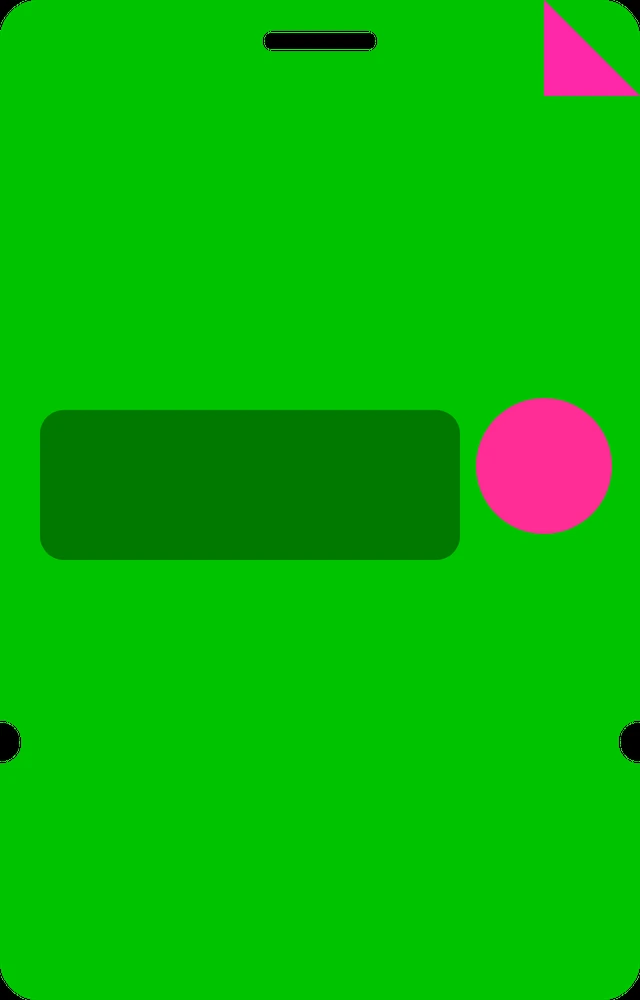
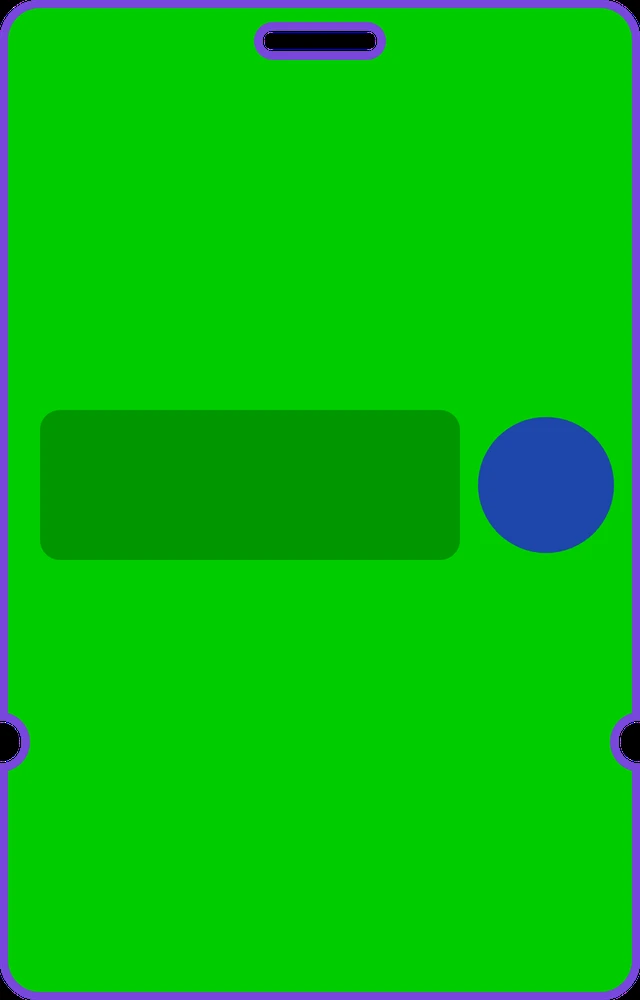
El pase se vuelve sobrio y más chico
- Dibujo nuevo (scripts/generar-pase.mjs): papel marfil, una sola tinta,
  la itálica de Newsreader mezclada con Schibsted, un guilloché apenas
  visible, un sello negro de foil y el dorso negro. El único color es el
  borde, un foil champagne y perla que sigue también las muescas y el
  troquel; en el 3D es metálico y un poco tornasolado.
- El sello impreso al reservar repite el panel nuevo y pone el nombre en
  la misma serif.
- Más chico: el lugar de la portada pasa de 17,5 a 14,5rem, el hueco del
  banner de 32 a 26rem y la escala de vuelo de 0,42 a 0,34. Una ida y
  vuelta cada cuatro pantallas en vez de tres.
- El banner a tono: halo tenue, el champagne del foil en la línea de
  corte, la tijera y las tildes, y el botón del color del papel.

Claude-Session: https://claude.ai/code/session_01URkYAoW3PLGzmED62UZcjE

Changed region(s): [[0.0, 0.0, 1.0, 1.0]]

diff --git a/components/pase/pase-3d.ts b/components/pase/pase-3d.ts
@@ -114,12 +114,14 @@ const PESO = 240;
 const ROCE = 0.045;
 const ARRASTRE_VUELO = 0.9;
 const ITERACIONES = 5;
-const ESCALA_VUELO = 0.42;
+/* Chico: volando cruza el texto que alguien está leyendo. Era 0,42 y
+   molestaba al scrollear. */
+const ESCALA_VUELO = 0.34;
 
 /* La textura de la cara, en px de la imagen (a 2x del diseño de 640 × 1000). */
 const TEX_W = 1280;
 const TEX_H = 2000;
-const PANEL = { x: 80, y: 820, w: 840, h: 300, r: 48 };
+const PANEL = { x: 80, y: 820, w: 840, h: 300, r: 40 };
 
 type Pose = {
   x: number;
@@ -276,47 +278,59 @@ export async function montarPase(o: OpcionesPase): Promise<ControlPase> {
     pincel.clearRect(0, 0, TEX_W, TEX_H);
     pincel.drawImage(cara, 0, 0, TEX_W, TEX_H);
     if (sello) {
-      await document.fonts.load('600 92px "Schibsted Grotesk"').catch(() => {});
+      /* El panel se vuelve a pintar entero con el mismo dibujo que tiene
+         en la textura (scripts/generar-pase.mjs): el marfil del panel, su
+         filete y la etiqueta. El nombre va en la itálica de Newsreader, como
+         «Tu lugar»; la portada ya la bajó, así que está a mano. */
+      await Promise.all([
+        document.fonts.load('600 26px "Schibsted Grotesk"'),
+        document.fonts.load('italic 400 100px "Newsreader"'),
+      ]).catch(() => {});
       const { x, y, w, h, r } = PANEL;
-      pincel.fillStyle = "#fffdf9";
+      pincel.fillStyle = "#fbf9f4";
+      pincel.strokeStyle = "rgba(21,20,19,0.12)";
+      pincel.lineWidth = 3;
       pincel.beginPath();
-      pincel.roundRect(x, y, w, h, r);
+      pincel.roundRect(x + 1.5, y + 1.5, w - 3, h - 3, r - 1.5);
       pincel.fill();
-      pincel.fillStyle = "#6a6a6a";
-      pincel.font = '600 26px "Schibsted Grotesk", sans-serif';
-      pincel.letterSpacing = "5.7px";
-      pincel.fillText(o.textos.titular.toUpperCase(), x + 56, y + 74);
-      // La etiqueta, ahora rellena: el lugar ya es de alguien.
+      pincel.stroke();
+      pincel.fillStyle = "#7a736b";
       pincel.font = '600 24px "Schibsted Grotesk", sans-serif';
-      pincel.letterSpacing = "4.3px";
+      pincel.letterSpacing = "5.8px";
+      pincel.fillText(o.textos.titular.toUpperCase(), x + 56, y + 70);
+      // La etiqueta, ahora rellena: el lugar ya es de alguien.
+      pincel.font = '600 22px "Schibsted Grotesk", sans-serif';
+      pincel.letterSpacing = "4.4px";
       const etiqueta = o.textos.reservado.toUpperCase();
       const ancho = pincel.measureText(etiqueta).width + 44;
-      pincel.fillStyle = "#121212";
+      pincel.fillStyle = "#151413";
       pincel.beginPath();
-      pincel.roundRect(x + w - 44 - ancho, y + 44, ancho, 46, 23);
+      pincel.roundRect(x + w - 44 - ancho, y + 40, ancho, 46, 23);
       pincel.fill();
-      pincel.fillStyle = "#fffdf9";
-      pincel.fillText(etiqueta, x + w - 44 - ancho + 22, y + 76);
+      pincel.fillStyle = "#fbf9f4";
+      pincel.fillText(etiqueta, x + w - 44 - ancho + 22, y + 71);
       // Lo principal, tan grande como entre en el panel: el nombre si lo
       // dejó, y si no el mail. Con nombre, el mail va chico abajo.
       const principal = sello.nombre || sello.email;
-      pincel.letterSpacing = "-2px";
-      pincel.fillStyle = "#121212";
-      let tam = 84;
+      pincel.letterSpacing = "-1px";
+      pincel.fillStyle = "#151413";
+      let tam = sello.nombre ? 108 : 76;
       do {
-        pincel.font = `600 ${tam}px "Schibsted Grotesk", sans-serif`;
+        pincel.font = sello.nombre
+          ? `italic 400 ${tam}px "Newsreader", Georgia, serif`
+          : `600 ${tam}px "Schibsted Grotesk", sans-serif`;
         tam -= 4;
       } while (pincel.measureText(principal).width > w - 112 && tam > 30);
-      pincel.fillText(principal, x + 56, y + (sello.nombre ? 178 : 200));
+      pincel.fillText(principal, x + 56, y + (sello.nombre ? 190 : 200));
       if (sello.nombre) {
         pincel.letterSpacing = "0px";
-        pincel.fillStyle = "#565656";
-        tam = 34;
+        pincel.fillStyle = "#5e5850";
+        tam = 32;
         do {
           pincel.font = `500 ${tam}px "Schibsted Grotesk", sans-serif`;
           tam -= 2;
         } while (pincel.measureText(sello.email).width > w - 112 && tam > 20);
-        pincel.fillText(sello.email, x + 56, y + 244);
+        pincel.fillText(sello.email, x + 56, y + 252);
       }
       pincel.letterSpacing = "0px";
     }
@@ -496,7 +510,9 @@ export async function montarPase(o: OpcionesPase): Promise<ControlPase> {
   const seguir = (sy: number, e: ReturnType<typeof etapas>): Pose => {
     const tramo = Math.max(1, e.descenso - e.despegue);
     const q = acotar((sy - e.despegue) / tramo);
-    const cruces = 2 * Math.max(1, Math.round(tramo / (vh * 3)));
+    // Una ida y vuelta cada cuatro pantallas: con una cada tres, el pase
+    // pasaba de un costado al otro tan seguido que distraía.
+    const cruces = 2 * Math.max(1, Math.round(tramo / (vh * 4)));
     const mitad = (W0 * ESCALA_VUELO) / 2 + 40;
     const lado = 0.5 + 0.5 * Math.cos(Math.PI * q * cruces);
     return {

diff --git a/components/sections/lugar.tsx b/components/sections/lugar.tsx
@@ -41,7 +41,8 @@ function Vecino({ lado }: { lado: "izquierda" | "derecha" }) {
  * del medio le falta el suyo: en su lugar hay un recorte del color de la
  * página, con la forma exacta del pase acostado —las esquinas, y dos
  * pestañas que calzan en las muescas del talón—, la línea de corte con su
- * tijera y un halo de los colores del pase. El pase que vino volando desde
+ * tijera y un halo tenue. El único color es el champagne del foil del pase,
+ * en la línea de corte, la tijera y las tildes: el resto es la tinta. El pase que vino volando desde
  * la portada (components/pase) baja, se acuesta y calza ahí: es la pieza que
  * faltaba. Abajo, el formulario con nombre y mail.
  *
@@ -83,10 +84,10 @@ export function Lugar({ surface = "mist" }: { surface?: Surface }) {
 
         {/* La tira de cupones y el hueco. El contenedor mide lo que el hueco:
             los vecinos y el halo se ubican desde él y la tarjeta los corta. */}
-        <div className="relative mx-auto mt-10 w-full max-w-[19rem] sm:max-w-[26rem] md:mt-12 lg:max-w-[32rem]">
+        <div className="relative mx-auto mt-10 w-full max-w-[17rem] sm:max-w-[22rem] md:mt-12 lg:max-w-[26rem]">
           <div
             aria-hidden
-            className="pointer-events-none absolute left-1/2 top-1/2 -z-10 h-[150%] w-[130%] -translate-x-1/2 -translate-y-1/2 rounded-full bg-[radial-gradient(closest-side_at_28%_42%,var(--color-aqua),transparent),radial-gradient(closest-side_at_70%_38%,var(--color-rosa),transparent),radial-gradient(closest-side_at_52%_72%,var(--color-miel),transparent)] opacity-40 blur-3xl"
+            className="pointer-events-none absolute left-1/2 top-1/2 -z-10 h-[150%] w-[130%] -translate-x-1/2 -translate-y-1/2 rounded-full bg-[radial-gradient(closest-side,#e6d7bb,transparent)] opacity-25 blur-3xl"
           />
           <Vecino lado="izquierda" />
           <Vecino lado="derecha" />
@@ -94,9 +95,9 @@ export function Lugar({ surface = "mist" }: { surface?: Surface }) {
           {/* La línea de corte, con la tijera encima. */}
           <div
             aria-hidden
-            className="pointer-events-none absolute -inset-2.5 rounded-[calc(4%+10px)/calc(6.25%+10px)] border-[1.5px] border-dashed border-miel/70"
+            className="pointer-events-none absolute -inset-2.5 rounded-[calc(4%+10px)/calc(6.25%+10px)] border-[1.5px] border-dashed border-[#c8ae84]/60"
           >
-            <ScissorsIcon className="absolute -top-[9px] left-7 h-4 w-4 bg-ink text-miel" />
+            <ScissorsIcon className="absolute -top-[9px] left-7 h-4 w-4 bg-ink text-[#c8ae84]" />
           </div>
 
           {/* El recorte: el color de la página, con un poco de sombra
@@ -123,7 +124,7 @@ export function Lugar({ surface = "mist" }: { surface?: Surface }) {
           <PaseLugar
             origen="banner"
             acostado
-            sizes="(min-width: 1024px) 330px, (min-width: 640px) 270px, 200px"
+            sizes="(min-width: 1024px) 270px, (min-width: 640px) 230px, 180px"
             className="w-full"
           />
         </div>
@@ -141,7 +142,7 @@ export function Lugar({ surface = "mist" }: { surface?: Surface }) {
           <ul className="mx-auto mt-6 flex max-w-[56rem] flex-wrap justify-center gap-x-6 gap-y-2 text-[0.85rem] text-on-ink/70">
             {lugar.points.map((punto) => (
               <li key={punto} className="flex items-center gap-2">
-                <CheckIcon className="h-3.5 w-3.5 shrink-0 text-miel" />
+                <CheckIcon className="h-3.5 w-3.5 shrink-0 text-[#c8ae84]" />
                 {punto}
               </li>
             ))}

diff --git a/components/pase/pase-formulario.tsx b/components/pase/pase-formulario.tsx
@@ -27,7 +27,7 @@ import {
  * - El de la portada es corto: el mail solo, en una línea, sobre la página.
  * - El del banner (`conNombre`) pide nombre y mail, con las etiquetas a la
  *   vista, y va sobre la tinta del banner (`sobreTinta`): ahí el botón negro
- *   desaparecería, así que lleva los colores del pase.
+ *   desaparecería, así que se da vuelta y es del color del papel.
  */
 export function PaseFormulario({
   origen,
@@ -189,10 +189,9 @@ export function PaseFormulario({
           className={cn(
             "h-12 whitespace-nowrap rounded-full px-6 text-[0.95rem] font-medium transition-[opacity,transform] disabled:opacity-70",
             sobreTinta
-              ? /* Los colores del pase, en un degradé fijo: va sobre la
-                   tinta en los dos temas, y el texto oscuro pasa 9:1 contra
-                   cualquiera de los tres. */
-                "bg-[linear-gradient(100deg,var(--color-aqua),var(--color-rosa)_55%,var(--color-miel))] text-[#121212] hover:-translate-y-px hover:opacity-95"
+              ? /* Sobre la tinta, el botón es el papel: blanco sobre la
+                   tarjeta oscura, y oscuro cuando el tema la da vuelta. */
+                "bg-on-ink text-ink hover:-translate-y-px hover:opacity-90"
               : "bg-ink text-on-ink hover:opacity-90",
           )}
         >

diff --git a/components/sections/hero.tsx b/components/sections/hero.tsx
@@ -65,7 +65,8 @@ export function Hero({
           <PaseLugar
             origen="hero"
             entra={0.5}
-            className="mx-auto w-[15.5rem] sm:w-[16rem] xl:w-[17.5rem]"
+            sizes="(min-width: 1280px) 232px, 216px"
+            className="mx-auto w-[13rem] sm:w-[13.5rem] xl:w-[14.5rem]"
           />
           <div data-entra style={{ "--entra": "0.6s" } as React.CSSProperties}>
             <PaseFormulario origen="hero" className="mt-7" />

diff --git a/CLAUDE.md b/CLAUDE.md
@@ -58,7 +58,7 @@ Sections never paint a background. They declare `data-surface="mist" | "deep"`, 
 - Every animation runs inside `gsap.matchMedia()` with a reduced-motion branch. With reduced motion or with JavaScript off, everything must be visible.
 - The hero entrance is pure CSS (`data-entra`, `SplitHeading immediate`) so the LCP does not wait for JavaScript.
 - The hero (`components/sections/hero.tsx`) is a left-aligned text column (availability pill, title, lead, CTAs) with the Pantufla pass on the right, its email form below it (`components/pase/pase-formulario.tsx`, posted to `/api/lugar`), and the masonry screen gallery (`hero-galeria.tsx`) below, full width. The banner's form (`conNombre`, `sobreTinta`) also asks for a name. The form state is shared by both forms and the 3D pass through `lib/pase.ts` (a `useSyncExternalStore` store, remembered in localStorage as JSON; a bare email string from before still reads); once reserved, the pass prints the name (or the email) on its face.
-- The pass is a 3D paper (`components/pase/pase-3d.ts`, Three.js, imported only after the capability check): one fixed full-viewport canvas (`pase-escena.tsx`, `z-30`, no pointer events) draws a 13 × 20 Verlet cloth with stretch, shear and bend springs, each point tied to its target by a spring that is stiff in the centre and loose at the edges, plus air drag on the face and a little weight in flight. The page only holds the slots (`[data-pase-lugar="hero" | "banner"]`, `pase-lugar.tsx`) with a fallback image; `[data-pase-3d]` on `<html>` hides those images while the 3D runs. One world unit is one CSS px and the camera makes the z = 0 plane real size, so a flat pass lands exactly on its slot. With both slots on (desktop/tablet), it peels off the hero slot when that slot's centre reaches 15% of the viewport, shrinks to 0.42, crosses the page in the lower third turning over (the back shows mid-crossing) and lands lying down in the banner's slot, halfway down the home (`components/sections/lugar.tsx`, after Capacidades: the user found a flight across the whole page annoying). A slot wider than tall is a lying-down pass: the 3D scales it from the slot's height and rotates it a quarter turn. `GIROS` (`pase-lugar.tsx`) are CSS degrees (clockwise positive) shared by the fallback image and the 3D, which flips the sign because its y axis points up. The banner is built around that slot: an ink card with a strip of dashed coupons and a cut-out hole (page colour) with the pass's exact corners and two tabs that fill the stub's notches (measured from the texture), so the landed pass reads as the missing piece. Focus inside a pass zone (`[data-pase-zona]`) keeps it docked there. On phones it stays in whichever slot is visible. Everything is a function of scroll and pointer: when the paper settles the loop sleeps. It never runs under reduced motion, nor on software WebGL (renderer name check, like the old ribbon); `?pase3d` forces it for headless tests, where the lighting can also be overridden from the URL (`env`, `luz`, `brillo`, `iris`). Since r163, environment intensity is `scene.environmentIntensity`, not the material's `envMapIntensity`. The textures (`public/pase`: face es/en, back, and an R/G/B map for iridescence/roughness/metalness) are drawn in HTML by `scripts/generar-pase.mjs`; the pass text is part of that drawing, not of the Studio.
+- The pass is a 3D paper (`components/pase/pase-3d.ts`, Three.js, imported only after the capability check): one fixed full-viewport canvas (`pase-escena.tsx`, `z-30`, no pointer events) draws a 13 × 20 Verlet cloth with stretch, shear and bend springs, each point tied to its target by a spring that is stiff in the centre and loose at the edges, plus air drag on the face and a little weight in flight. The page only holds the slots (`[data-pase-lugar="hero" | "banner"]`, `pase-lugar.tsx`) with a fallback image; `[data-pase-3d]` on `<html>` hides those images while the 3D runs. One world unit is one CSS px and the camera makes the z = 0 plane real size, so a flat pass lands exactly on its slot. With both slots on (desktop/tablet), it peels off the hero slot when that slot's centre reaches 15% of the viewport, shrinks to 0.34 (it was 0.42 and the user found it annoying while scrolling), crosses the page in the lower third turning over, one round trip every four screens (the back shows mid-crossing) and lands lying down in the banner's slot, halfway down the home (`components/sections/lugar.tsx`, after Capacidades: the user found a flight across the whole page annoying). A slot wider than tall is a lying-down pass: the 3D scales it from the slot's height and rotates it a quarter turn. `GIROS` (`pase-lugar.tsx`) are CSS degrees (clockwise positive) shared by the fallback image and the 3D, which flips the sign because its y axis points up. The banner is built around that slot: an ink card with a strip of dashed coupons and a cut-out hole (page colour) with the pass's exact corners and two tabs that fill the stub's notches (measured from the texture), so the landed pass reads as the missing piece. Focus inside a pass zone (`[data-pase-zona]`) keeps it docked there. On phones it stays in whichever slot is visible. Everything is a function of scroll and pointer: when the paper settles the loop sleeps. It never runs under reduced motion, nor on software WebGL (renderer name check, like the old ribbon); `?pase3d` forces it for headless tests, where the lighting can also be overridden from the URL (`env`, `luz`, `brillo`, `iris`). Since r163, environment intensity is `scene.environmentIntensity`, not the material's `envMapIntensity`. The textures (`public/pase`: face es/en, back, and an R/G/B map for iridescence/roughness/metalness) are drawn in HTML by `scripts/generar-pase.mjs`; the pass text is part of that drawing, not of the Studio. The pass is deliberately sober (the user asked for fewer colours and a premium feel): ivory paper, one ink, Newsreader italic mixed with Schibsted, a black foil seal, a black back, and a champagne/pearl foil edge that follows the notches and the lanyard slot, which is the only colour and is metallic and slightly iridescent in the 3D. The banner echoes it: ink, with champagne only on the cut line, the scissors and the ticks.
 - Anything that moves on its own must be stoppable. Tickers are wrapped in `RielPausable` (`components/ui/riel-pausable.tsx`): they pause on hover, focus-within, a touch tap, and a keyboard-only button (`header.pauseMotion` / `resumeMotion` in the copy). Testimonials auto-rotate until a face is picked, pause while hovered or focused, never rotate under reduced motion, and only use `aria-live` after a manual pick. The hero gallery and the client-logo strip (logos only, full width) are `RielPausable` tickers too.
 - The header (`components/site-header.tsx`) has no bar at the top of the page: logo, a glass pill for the nav and the buttons float with the hero's margin (64 px at 1440, max width 1440). Its row is a three-column grid so the nav stays centered. It compacts after 40 px and hides while scrolling down, but stays visible during a programmatic jump (nav anchors; `lib/scroll.ts` carries the signal from `smooth-scroll.tsx`), with keyboard focus inside, and with the mobile menu open. It highlights the section crossing 40% of the viewport. The mobile menu stops Lenis through `lib/scroll.ts`, makes the page behind `inert`, closes on Escape and when the viewport reaches `md`.
 - The projects section (`components/sections/work.tsx` + `components/ui/project-stack.tsx`) scrolls freely. On desktop the heading is sticky at mid-height and the row crossing the viewport middle is highlighted. It used to be a pinned wheel-driven stepper; the user found it painful, so do not reintroduce scroll hijacking there.
@@ -68,7 +68,7 @@ Sections never paint a background. They declare `data-surface="mist" | "deep"`, 
 - Tokens are in `app/globals.css` (`@theme`). `cn()` in `lib/cn.ts` is a plain join, not tailwind-merge: when two utilities conflict, CSS order wins, not argument order.
 - Four brand colors (aqua, rosa, verde, miel), each with `-soft`, base and `-deep`. The base shade never carries small text on a light background. `lib/tones.ts` maps tones to full class names because Tailwind cannot build class names at runtime.
 - The font is a self-hosted subset of Schibsted Grotesk (weights 400–600, Latin) at `public/fonts/schibsted-grotesk-latin-v1.woff2`, preloaded by hand in the locale layout and declared in `globals.css` with metric-adjusted fallbacks. `next/font` did not emit its preload in this build. Weights above 600 do not exist; if the file changes, bump the `-vN` in its name, since `next.config.ts` serves it with an immutable cache header.
-- A second family, Newsreader italic (`font-serif`, `public/fonts/newsreader-italic-latin-v1.woff2`, 19 KB: instanced at weight 400 and optical size 72, Latin subset), is only for the `serif` mark of `SplitHeading` (the two accent words of the hero title, in the same ink as the rest) and nothing else. The hero preloads it with `preload()` from `react-dom`, so other pages never download it. The serif words carry their own `leading-[0.712]` so their baseline matches the Schibsted words inside the 0.98 title; with another line height that number has to be recomputed (see `split-heading.tsx`).
+- A second family, Newsreader italic (`font-serif`, `public/fonts/newsreader-italic-latin-v1.woff2`, 19 KB: instanced at weight 400 and optical size 72, Latin subset), is for the `serif` mark of `SplitHeading` (the two accent words of the hero title, in the same ink as the rest) and the pass: it is baked into the pass textures, and the 3D pass draws the reserved name with it on its canvas, relying on the hero having loaded it. Nothing else on the page uses it. The hero preloads it with `preload()` from `react-dom`, so other pages never download it. The serif words carry their own `leading-[0.712]` so their baseline matches the Schibsted words inside the 0.98 title; with another line height that number has to be recomputed (see `split-heading.tsx`).
 - `experimental.inlineCss` is on: CSS ships inside the HTML.
 - Client logos (`public/logos/clientes`) are black on transparent and drawn as CSS masks filled with `currentColor` (`.logo-cliente`), so they follow the theme. Each entry in `socialProof.brands` (`content/site.ts`) carries its width/height `proporcion`; the strip gives every logo the same area, and `escala` nudges one that still reads light. A client without a file falls back to its name as text.
 
@@ -82,7 +82,7 @@ Two third-party skills live in `.claude/skills` (sources and hashes in `skills-l
 
 - Motion is GSAP + ScrollTrigger + Lenis, not Motion/Framer.
 - The page switches theme on scroll (Proceso, Proyectos and the form default to dark).
-- The hero is text on the left (availability pill, title with two serif italic words, lead, CTAs), the 3D paper pass in Pantufla's four colours on the right (with its form below) that flies with the scroll and lands lying down in the mid-page banner, and the masonry screen gallery below. It replaced the Claude Design hero (WebGL ribbon and project carousel) on purpose, which had replaced the old dashboard hero.
+- The hero is text on the left (availability pill, title with two serif italic words, lead, CTAs), the sober 3D paper pass on the right (ivory, one ink, serif + sans, champagne foil edge; with its form below) that flies with the scroll and lands lying down in the mid-page banner, and the masonry screen gallery below. It replaced the Claude Design hero (WebGL ribbon and project carousel) on purpose, which had replaced the old dashboard hero.
 - Icons (`components/ui/icons.tsx`), the brand mark and the bento vignettes are hand-made SVG/HTML.
 - Section labels use the `Tag` pill on most sections.
 - Client logos in the social-proof strip are one color (the theme ink), not their brand colors.

diff --git a/README.md b/README.md
@@ -353,7 +353,8 @@ objeciones → contacto**:
   la tinta del tema con una tira de cupones punteados, y al del medio le
   falta el suyo. El hueco tiene la forma exacta del pase acostado —las
   esquinas y dos pestañas que entran en las muescas del talón—, una línea de
-  corte con su tijera y un halo de los colores del pase. El pase que vino
+  corte con su tijera y un halo tenue; el único color es el champagne del
+  foil del pase, en la línea de corte, la tijera y las tildes. El pase que vino
   volando desde la portada se acuesta y calza ahí, como la pieza que faltaba.
   Antes era la última sección y el pase acompañaba la página entera, que era
   demasiado.
@@ -399,13 +400,19 @@ seguido.
   líneas; más angosto, en tres.
 - **El pase** es una pieza 3D (Three.js) con física de papel: una malla de
   puntos unidos por resortes que se dobla, flamea y se asienta como un papel
-  blando. Va en los cuatro colores de la marca, con un sticker y una esquina
-  holográficos que cambian de color según cómo le da la luz al doblarse. Con
+  blando. Es sobrio a propósito: papel marfil, una sola tinta, la itálica de
+  Newsreader mezclada con Schibsted («*Pase* prioritario», «*Tu lugar*»), un
+  sello negro como un foil estampado y el dorso negro. El único color es el
+  borde, un foil champagne y perla que rodea toda la silueta (también las
+  muescas y el troquel) y que en el 3D brilla como metal y cambia apenas de
+  tono cuando el papel se dobla. Antes iba en los cuatro colores de la marca
+  y era demasiado. Con
   el mouse encima se hunde donde apoya y se inclina hacia el puntero.
 - **El vuelo.** Cuando el pase de la portada llega arriba de la pantalla, se
-  despega curvándose, se achica y acompaña el scroll cruzando la página de un
-  costado al otro en el tercio de abajo de la ventana, dando vueltas (a mitad
-  de cada cruce se ve el dorso). Al llegar al banner de la mitad de la home
+  despega curvándose, se achica (a un tercio, para que moleste poco mientras
+  se lee) y acompaña el scroll cruzando la página de un costado al otro en el
+  tercio de abajo de la ventana, una ida y vuelta cada cuatro pantallas, dando
+  vueltas (a mitad de cada cruce se ve el dorso). Al llegar al banner de la mitad de la home
   baja, se acuesta un cuarto de vuelta, crece y calza exactamente en el hueco
   de ahí (llega cuando el hueco está en el medio de la pantalla). Lo mueven el
   scroll y el puntero: cuando el papel se asienta, deja de dibujar. Si alguien
